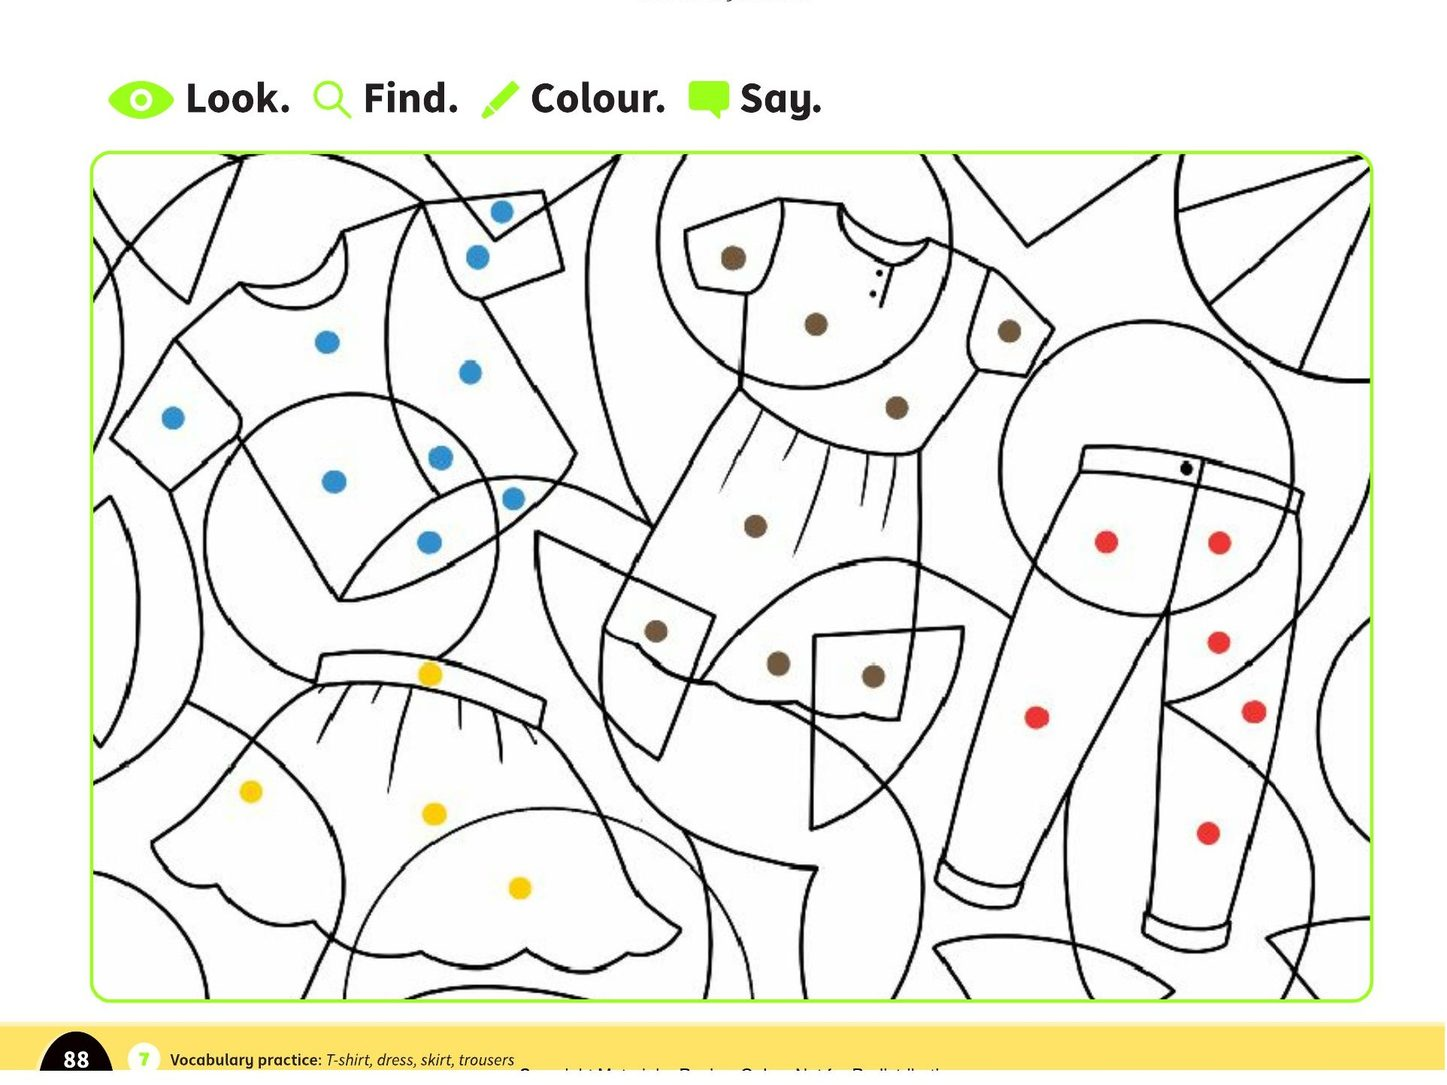
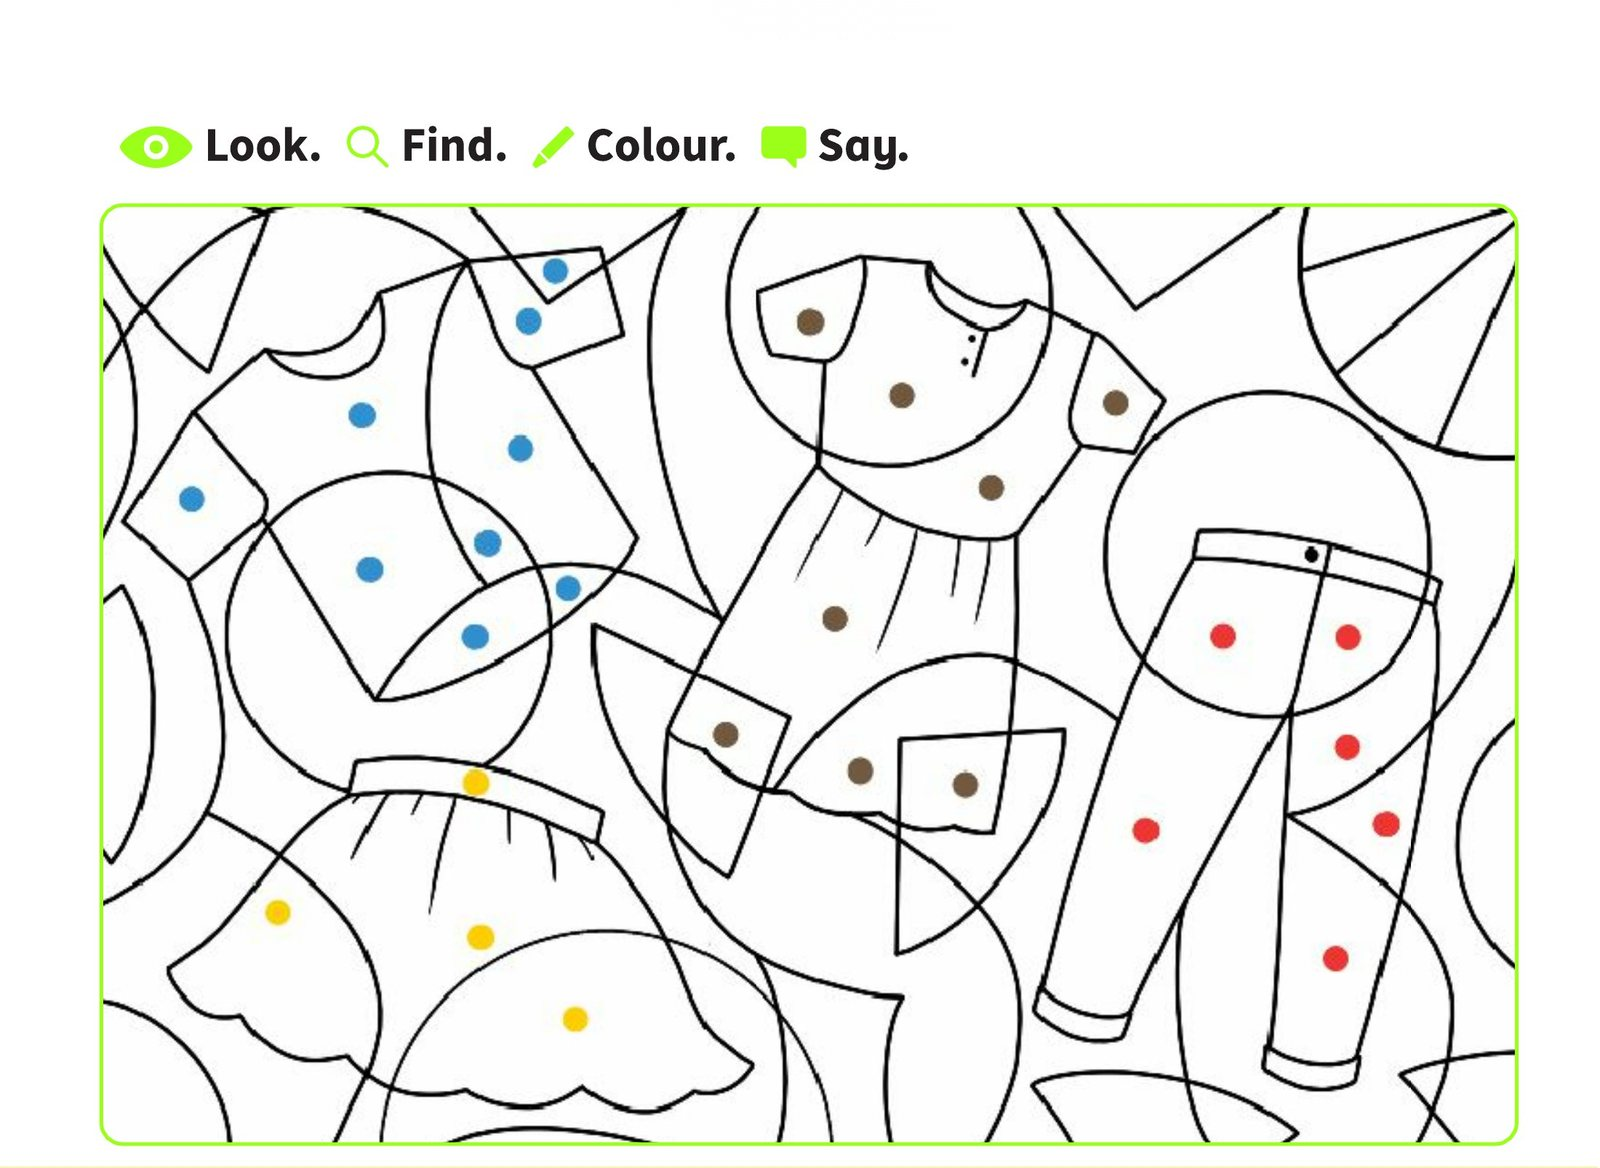
Pippa and Pop Unit 7: bigger book pages, story on one image, clearer big/small, larger page viewer
Claude-Session: https://claude.ai/code/session_01HRxe9P7gDbyjRT5WBzE48u

Changed region(s): [[0.0, 0.0608, 1.0, 1.0], [0.1555, 0.8212, 0.1866, 0.8516]]

diff --git a/public-media.js b/public-media.js
@@ -8,5 +8,5 @@ window.LOCALMEDIA=Object.assign(window.LOCALMEDIA||{},{"vox:phonics_a": {"apple"
 window.LOCALMEDIA=Object.assign(window.LOCALMEDIA||{},{"vox:phonics_v": {"van": "media-lib/opw/vox/van.mp3", "vet": "media-lib/opw/vox/vet.mp3", "vest": "media-lib/opw/vox/vest.mp3", "violin": "media-lib/opw/vox/violin.mp3"}, "vox:phonics_w": {"wolf": "media-lib/opw/vox/wolf.mp3", "web": "media-lib/opw/vox/web.mp3", "water": "media-lib/opw/vox/water.mp3", "watch": "media-lib/opw/vox/watch.mp3"}, "vox:phonics_x": {"fox": "media-lib/opw/vox/fox.mp3", "box": "media-lib/opw/vox/box.mp3", "six": "media-lib/opw/vox/six.mp3", "wax": "media-lib/opw/vox/wax.mp3"}, "vox:phonics_y": {"yo-yo": "media-lib/opw/vox/yo-yo.mp3", "yak": "media-lib/opw/vox/yak.mp3", "yogurt": "media-lib/opw/vox/yogurt.mp3", "yacht": "media-lib/opw/vox/yacht.mp3"}, "vox:phonics_z": {"zipper": "media-lib/opw/vox/zipper.mp3", "zero": "media-lib/opw/vox/zero.mp3", "zoo": "media-lib/opw/vox/zoo.mp3", "zebra": "media-lib/opw/vox/zebra.mp3"}});
 
 /* Phonics World voices for Letters O, P, Q */
-window.LOCALMEDIA=Object.assign(window.LOCALMEDIA||{},{"vox:phonics_o": {"octopus": "media-lib/opw/vox/octopus.mp3", "ox": "media-lib/opw/vox/ox.mp3", "olive": "media-lib/opw/vox/olive.mp3", "ostrich": "media-lib/opw/vox/ostrich.mp3"}, "vox:phonics_p": {"peach": "media-lib/opw/vox/peach.mp3", "pen": "media-lib/opw/vox/pen.mp3", "panda": "media-lib/opw/vox/panda.mp3", "pineapple": "media-lib/opw/vox/pineapple.mp3"}, "vox:phonics_q": {"queen": "media-lib/opw/vox/queen.mp3", "quiz": "media-lib/opw/vox/quiz.mp3", "quilt": "media-lib/opw/vox/quilt.mp3", "question": "media-lib/opw/vox/question.mp3"},"sbk:pp1_u7a":[{"src":"media-lib/pp1/pg/pb-p82.jpg","t":"Pupil's Book p.82: Unit 7 opener: the clothes song","w":1447,"h":1060,"au":[{"src":"media-lib/pp1/au/t53.mp3","t":"Audio (track 53)"}]},{"src":"media-lib/pp1/pg/pb-p83.jpg","t":"Pupil's Book p.83: Dan and Kim: listen, point, colour","w":1447,"h":1060,"au":[{"src":"media-lib/pp1/au/t54.mp3","t":"Audio (track 54)"}]},{"src":"media-lib/pp1/pg/pb-p84.jpg","t":"Pupil's Book p.84: Stickers: put on your hat (Track 55 is not in your Audio folder)","w":1447,"h":1060,"au":[]}],"wbk:pp1_u7a":[{"src":"media-lib/pp1/pg/ab-p82.jpg","t":"Activity Book p.82: Listen again, stick, point","w":1447,"h":1085,"au":[{"src":"media-lib/pp1/au/t53.mp3","t":"Audio (track 53)"}]},{"src":"media-lib/pp1/pg/ab-p83.jpg","t":"Activity Book p.83: Look, find, circle, say","w":1447,"h":1085,"au":[{"src":"media-lib/pp1/au/t54.mp3","t":"Audio (track 54)"}]},{"src":"media-lib/pp1/pg/ab-p84.jpg","t":"Activity Book p.84: Odd one out: put on, take off","w":1447,"h":1085,"au":[]}],"opw:pp1_u7a":[{"src":"media-lib/pp1/clip/u7a-t53.mp4","b":"The clothes song (track 53)"},{"src":"media-lib/pp1/clip/u7a-t54.mp4","b":"Dan, Kim and Mummy (track 54)"}],"sbk:pp1_u7b":[{"src":"media-lib/pp1/pg/pb-p85.jpg","t":"Pupil's Book p.85: Letter sound i: listen, trace, colour, say","w":1447,"h":1060,"au":[{"src":"media-lib/pp1/au/t56.mp3","t":"Audio (track 56)"}]},{"src":"media-lib/pp1/pg/pb-p86.jpg","t":"Pupil's Book p.86: Tommy's T-shirt: pictures 1 to 4","w":1447,"h":1060,"au":[{"src":"media-lib/pp1/au/t57.mp3","t":"Audio (track 57)"}]},{"src":"media-lib/pp1/pg/pb-p87.jpg","t":"Pupil's Book p.87: Tommy's T-shirt: pictures 5 to 8","w":1447,"h":1060,"au":[{"src":"media-lib/pp1/au/t57.mp3","t":"Audio (track 57)"}]}],"wbk:pp1_u7b":[{"src":"media-lib/pp1/pg/ab-p85.jpg","t":"Activity Book p.85: Letter i: listen again, find, trace, say","w":1447,"h":1085,"au":[{"src":"media-lib/pp1/au/t56.mp3","t":"Audio (track 56)"}]},{"src":"media-lib/pp1/pg/ab-p86.jpg","t":"Activity Book p.86: Tommy's T-shirt: look, point, trace","w":1447,"h":1085,"au":[{"src":"media-lib/pp1/au/t57.mp3","t":"Audio (track 57)"}]},{"src":"media-lib/pp1/pg/ab-p87.jpg","t":"Activity Book p.87: Be considerate: draw, colour, say","w":1447,"h":1085,"au":[]}],"opw:pp1_u7b":[{"src":"media-lib/pp1/clip/u7b-t56.mp4","b":"The letter sound i (track 56)"},{"src":"media-lib/pp1/clip/u7b-t57.mp4","b":"Tommy's T-shirt: the story (track 57)"}],"sbk:pp1_u7c":[{"src":"media-lib/pp1/pg/pb-p88.jpg","t":"Pupil's Book p.88: Pippa's new clothes: listen, point, trace","w":1447,"h":1060,"au":[{"src":"media-lib/pp1/au/t58.mp3","t":"Audio (track 58)"}]},{"src":"media-lib/pp1/pg/pb-p89.jpg","t":"Pupil's Book p.89: The clothes chant: listen, colour, sing","w":1447,"h":1060,"au":[{"src":"media-lib/pp1/au/t59.mp3","t":"Audio (track 59)"}]},{"src":"media-lib/pp1/pg/pb-p90.jpg","t":"Pupil's Book p.90: Numbers: shapes circle, square, triangle","w":1447,"h":1060,"au":[]}],"wbk:pp1_u7c":[{"src":"media-lib/pp1/pg/ab-p88.jpg","t":"Activity Book p.88: Look, find, colour, say","w":1447,"h":1085,"au":[{"src":"media-lib/pp1/au/t58.mp3","t":"Audio (track 58)"}]},{"src":"media-lib/pp1/pg/ab-p89.jpg","t":"Activity Book p.89: Match the children to the clothes","w":1447,"h":1085,"au":[{"src":"media-lib/pp1/au/t59.mp3","t":"Audio (track 59)"}]},{"src":"media-lib/pp1/pg/ab-p90.jpg","t":"Activity Book p.90: Shapes: look, trace, say","w":1447,"h":1085,"au":[]}],"opw:pp1_u7c":[{"src":"media-lib/pp1/clip/u7c-t58.mp4","b":"Pippa's new clothes (track 58)"},{"src":"media-lib/pp1/clip/u7c-t59.mp4","b":"The clothes chant (track 59)"}],"sbk:pp1_u7d":[{"src":"media-lib/pp1/pg/pb-p91.jpg","t":"Pupil's Book p.91: Art: rough and smooth","w":1447,"h":1060,"au":[]},{"src":"media-lib/pp1/pg/pb-p92.jpg","t":"Pupil's Book p.92: Review: I've got (socks), listen, match, say","w":1447,"h":1060,"au":[{"src":"media-lib/pp1/au/t60.mp3","t":"Audio (track 60)"}]},{"src":"media-lib/pp1/pg/pb-p93.jpg","t":"Pupil's Book p.93: Project time: dolls and clothes","w":1447,"h":1060,"au":[]}],"wbk:pp1_u7d":[{"src":"media-lib/pp1/pg/ab-p91.jpg","t":"Activity Book p.91: Rough and smooth: look, trace","w":1447,"h":1085,"au":[]},{"src":"media-lib/pp1/pg/ab-p92.jpg","t":"Activity Book p.92: Review: look, draw, say","w":1447,"h":1085,"au":[{"src":"media-lib/pp1/au/t60.mp3","t":"Audio (track 60)"}]},{"src":"media-lib/pp1/pg/ab-p93.jpg","t":"Activity Book p.93: Project time and self-evaluation","w":1447,"h":1085,"au":[]}],"opw:pp1_u7d":[{"src":"media-lib/pp1/clip/u7d-t59.mp4","b":"The clothes chant (track 59)"},{"src":"media-lib/pp1/clip/u7d-t60.mp4","b":"Which clothes? (track 60)"},{"src":"media-lib/pp1/clip/u7d-t53.mp4","b":"The clothes song (track 53)"}]
+window.LOCALMEDIA=Object.assign(window.LOCALMEDIA||{},{"vox:phonics_o": {"octopus": "media-lib/opw/vox/octopus.mp3", "ox": "media-lib/opw/vox/ox.mp3", "olive": "media-lib/opw/vox/olive.mp3", "ostrich": "media-lib/opw/vox/ostrich.mp3"}, "vox:phonics_p": {"peach": "media-lib/opw/vox/peach.mp3", "pen": "media-lib/opw/vox/pen.mp3", "panda": "media-lib/opw/vox/panda.mp3", "pineapple": "media-lib/opw/vox/pineapple.mp3"}, "vox:phonics_q": {"queen": "media-lib/opw/vox/queen.mp3", "quiz": "media-lib/opw/vox/quiz.mp3", "quilt": "media-lib/opw/vox/quilt.mp3", "question": "media-lib/opw/vox/question.mp3"},"sbk:pp1_u7a":[{"src":"media-lib/pp1/pg/pb-p82.jpg","t":"Pupil's Book p.82: Unit 7 opener: the clothes song","w":1600,"h":1140,"au":[{"src":"media-lib/pp1/au/t53.mp3","t":"Audio (track 53)"}]},{"src":"media-lib/pp1/pg/pb-p83.jpg","t":"Pupil's Book p.83: Dan and Kim: listen, point, colour","w":1600,"h":1140,"au":[{"src":"media-lib/pp1/au/t54.mp3","t":"Audio (track 54)"}]},{"src":"media-lib/pp1/pg/pb-p84.jpg","t":"Pupil's Book p.84: Stickers: put on your hat (Track 55 is not in your Audio folder)","w":1600,"h":1140,"au":[]}],"wbk:pp1_u7a":[{"src":"media-lib/pp1/pg/ab-p82.jpg","t":"Activity Book p.82: Listen again, stick, point","w":1600,"h":1168,"au":[{"src":"media-lib/pp1/au/t53.mp3","t":"Audio (track 53)"}]},{"src":"media-lib/pp1/pg/ab-p83-top.jpg","t":"Activity Book p.83: Look, find, circle, say (top half)","w":1600,"h":596,"au":[{"src":"media-lib/pp1/au/t54.mp3","t":"Audio (track 54)"}]},{"src":"media-lib/pp1/pg/ab-p83-bot.jpg","t":"Activity Book p.83: Look, find, circle, say (bottom half)","w":1600,"h":596,"au":[{"src":"media-lib/pp1/au/t54.mp3","t":"Audio (track 54)"}]},{"src":"media-lib/pp1/pg/ab-p84-top.jpg","t":"Activity Book p.84: Odd one out: put on, take off (top half)","w":1600,"h":596,"au":[]},{"src":"media-lib/pp1/pg/ab-p84-bot.jpg","t":"Activity Book p.84: Odd one out: put on, take off (bottom half)","w":1600,"h":596,"au":[]}],"opw:pp1_u7a":[{"src":"media-lib/pp1/clip/u7a-t53.mp4","b":"The clothes song (track 53)"},{"src":"media-lib/pp1/clip/u7a-t54.mp4","b":"Dan, Kim and Mummy (track 54)"}],"sbk:pp1_u7b":[{"src":"media-lib/pp1/pg/pb-p85.jpg","t":"Pupil's Book p.85: Letter sound i: listen, trace, colour, say","w":1600,"h":1140,"au":[{"src":"media-lib/pp1/au/t56.mp3","t":"Audio (track 56)"}]},{"src":"media-lib/pp1/pg/pb-p86-87.jpg","t":"Pupil's Book p.86: Tommy's T-shirt: the whole story (pp. 86-87)","w":2400,"h":855,"au":[{"src":"media-lib/pp1/au/t57.mp3","t":"Audio (track 57)"}]}],"wbk:pp1_u7b":[{"src":"media-lib/pp1/pg/ab-p85.jpg","t":"Activity Book p.85: Letter i: listen again, find, trace, say","w":1600,"h":1168,"au":[{"src":"media-lib/pp1/au/t56.mp3","t":"Audio (track 56)"}]},{"src":"media-lib/pp1/pg/ab-p86.jpg","t":"Activity Book p.86: Tommy's T-shirt: look, point, trace","w":1600,"h":1168,"au":[{"src":"media-lib/pp1/au/t57.mp3","t":"Audio (track 57)"}]},{"src":"media-lib/pp1/pg/ab-p87.jpg","t":"Activity Book p.87: Be considerate: draw, colour, say","w":1600,"h":1168,"au":[]}],"opw:pp1_u7b":[{"src":"media-lib/pp1/clip/u7b-t56.mp4","b":"The letter sound i (track 56)"},{"src":"media-lib/pp1/clip/u7b-t57.mp4","b":"Tommy's T-shirt: the story (track 57)"}],"sbk:pp1_u7c":[{"src":"media-lib/pp1/pg/pb-p88-top.jpg","t":"Pupil's Book p.88: Pippa's new clothes: listen, point, trace (top half)","w":1600,"h":582,"au":[{"src":"media-lib/pp1/au/t58.mp3","t":"Audio (track 58)"}]},{"src":"media-lib/pp1/pg/pb-p88-bot.jpg","t":"Pupil's Book p.88: Pippa's new clothes: listen, point, trace (bottom half)","w":1600,"h":582,"au":[{"src":"media-lib/pp1/au/t58.mp3","t":"Audio (track 58)"}]},{"src":"media-lib/pp1/pg/pb-p89.jpg","t":"Pupil's Book p.89: The clothes chant: listen, colour, sing","w":1600,"h":1140,"au":[{"src":"media-lib/pp1/au/t59.mp3","t":"Audio (track 59)"}]},{"src":"media-lib/pp1/pg/pb-p90.jpg","t":"Pupil's Book p.90: Numbers: shapes circle, square, triangle","w":1600,"h":1140,"au":[]}],"wbk:pp1_u7c":[{"src":"media-lib/pp1/pg/ab-p88.jpg","t":"Activity Book p.88: Look, find, colour, say","w":1600,"h":1168,"au":[{"src":"media-lib/pp1/au/t58.mp3","t":"Audio (track 58)"}]},{"src":"media-lib/pp1/pg/ab-p89-top.jpg","t":"Activity Book p.89: Match the children to the clothes (top half)","w":1600,"h":596,"au":[{"src":"media-lib/pp1/au/t59.mp3","t":"Audio (track 59)"}]},{"src":"media-lib/pp1/pg/ab-p89-bot.jpg","t":"Activity Book p.89: Match the children to the clothes (bottom half)","w":1600,"h":596,"au":[{"src":"media-lib/pp1/au/t59.mp3","t":"Audio (track 59)"}]},{"src":"media-lib/pp1/pg/ab-p90.jpg","t":"Activity Book p.90: Shapes: look, trace, say","w":1600,"h":1168,"au":[]}],"opw:pp1_u7c":[{"src":"media-lib/pp1/clip/u7c-t58.mp4","b":"Pippa's new clothes (track 58)"},{"src":"media-lib/pp1/clip/u7c-t59.mp4","b":"The clothes chant (track 59)"}],"sbk:pp1_u7d":[{"src":"media-lib/pp1/pg/pb-p91-top.jpg","t":"Pupil's Book p.91: Art: rough and smooth (top half)","w":1600,"h":582,"au":[]},{"src":"media-lib/pp1/pg/pb-p91-bot.jpg","t":"Pupil's Book p.91: Art: rough and smooth (bottom half)","w":1600,"h":582,"au":[]},{"src":"media-lib/pp1/pg/pb-p92-top.jpg","t":"Pupil's Book p.92: Review: I've got (socks), listen, match, say (top half)","w":1600,"h":582,"au":[{"src":"media-lib/pp1/au/t60.mp3","t":"Audio (track 60)"}]},{"src":"media-lib/pp1/pg/pb-p92-bot.jpg","t":"Pupil's Book p.92: Review: I've got (socks), listen, match, say (bottom half)","w":1600,"h":582,"au":[{"src":"media-lib/pp1/au/t60.mp3","t":"Audio (track 60)"}]},{"src":"media-lib/pp1/pg/pb-p93-top.jpg","t":"Pupil's Book p.93: Project time: dolls and clothes (top half)","w":1600,"h":582,"au":[]},{"src":"media-lib/pp1/pg/pb-p93-bot.jpg","t":"Pupil's Book p.93: Project time: dolls and clothes (bottom half)","w":1600,"h":582,"au":[]}],"wbk:pp1_u7d":[{"src":"media-lib/pp1/pg/ab-p91-top.jpg","t":"Activity Book p.91: Rough and smooth: look, trace (top half)","w":1600,"h":596,"au":[]},{"src":"media-lib/pp1/pg/ab-p91-bot.jpg","t":"Activity Book p.91: Rough and smooth: look, trace (bottom half)","w":1600,"h":596,"au":[]},{"src":"media-lib/pp1/pg/ab-p92.jpg","t":"Activity Book p.92: Review: look, draw, say","w":1600,"h":1168,"au":[{"src":"media-lib/pp1/au/t60.mp3","t":"Audio (track 60)"}]},{"src":"media-lib/pp1/pg/ab-p93-top.jpg","t":"Activity Book p.93: Project time and self-evaluation (top half)","w":1600,"h":596,"au":[]},{"src":"media-lib/pp1/pg/ab-p93-bot.jpg","t":"Activity Book p.93: Project time and self-evaluation (bottom half)","w":1600,"h":596,"au":[]}],"opw:pp1_u7d":[{"src":"media-lib/pp1/clip/u7d-t59.mp4","b":"The clothes chant (track 59)"},{"src":"media-lib/pp1/clip/u7d-t60.mp4","b":"Which clothes? (track 60)"},{"src":"media-lib/pp1/clip/u7d-t53.mp4","b":"The clothes song (track 53)"}]
 });

diff --git a/player.html b/player.html
@@ -791,7 +791,7 @@ else if(r==='scene'){const SC=L.scene,IW=SC_IW(L.scene),IH=SC_IH(L.scene),sx=160
  else if(r==='missing'){const M=S.ms;if(!M)h='<div class="q1">Who is missing?</div>';else{h=`<div class="t2">${M.h<0?'Look at the pictures!':M.rev?'It was '+M.ord[M.h]+'!':"Who is missing?"}</div><div class="row">${M.ord.map((x,i)=>M.h===i&&!M.rev?`<div class="mc back" style="width:230px;height:230px" onclick="act('msshow')">?</div>`:`<div class="card ${M.h===i&&M.rev?'ok':''}">${pic(x,'smp')}</div>`).join('')}</div>`}}
  else if(r==='find'){const F=S.fd;if(!F)h='<div class="q1">Find it!</div>';else{h=`<div class="top"><div class="q1">${F.done?'You found it!':'Find the '+F.t+'!'}</div></div>`+F.items.map((it,i)=>`<div class="fi ${it.o?'o':''} ${F.wob===i?'wob':''}" style="left:${it.px}px;top:${it.py}px;transform:rotate(${(i*37)%13-6}deg)" onclick="act('fpick',${i})">${pic(it.w)}</div>`).join('')}}
  else if(r==='scratch'){const Q=S.sc;if(!Q)h='<div class="q1">What is hiding?</div>';else{h=`<div class="t2">${Q.done?"It's a "+Q.t+'!':'What is hiding? Tap to look!'}</div><div style="position:relative;width:740px;height:430px">${pic(Q.t,'bigp')}${Q.tiles.map((o,i)=>`<div class="stile ${o||Q.done?'o':''}" style="left:${(i%4)*185}px;top:${Math.floor(i/4)*143.33}px;width:185px;height:143.4px" onclick="act('sct',${i})">?</div>`).join('')}</div>`}}
- else if(r==='wbk'){const st=L.stages[S.st],pg=st.pages||[],W=WB(),i=Math.min(W.i||0,pg.length-1),P=pg[i];if(!P)h='<div class="q1">No pages on this computer</div>';else{const q=P.w/P.h,ss=(W.s[st.kind+i]||[]).map(o=>`<polyline points="${o.p.map(z=>z.join(',')).join(' ')}" fill="none" stroke="${o.c}" stroke-width="9" stroke-linecap="round" stroke-linejoin="round" vector-effect="non-scaling-stroke"/>`).join('');const nb=(d,t,dis)=>`<button class="wbn"${dis?' disabled':''} onclick="event.stopPropagation();act('wbp',${d})">${t}</button>`,tb=(t,ac,pp,cl,st)=>`<button class="wbt ${cl||''}"${st?' style="'+st+'"':''} onclick="event.stopPropagation();act('${ac}'${pp!==undefined?','+JSON.stringify(pp).replace(/"/g,'&quot;'):''})">${t}</button>`;h=`<div class="wbw"><div class="wbwi" style="width:min(1060px,${(455*q).toFixed(0)}px)">${nb(-1,'&#9664;',i===0)}<div class="wbpen" style="width:100%;aspect-ratio:${q.toFixed(4)}"><img src="${P.src}" draggable="false"><svg viewBox="0 0 1000 1000" preserveAspectRatio="none">${ss}</svg></div>${nb(1,'&#9654;',i===pg.length-1)}</div></div><div class="wbtbar"><span class="wbc">${i+1} / ${pg.length}</span>${(P.au||[]).map(x=>tb('&#9658; '+x.t,'wbaud',x.src,'au')).join('')}${(P.au||[]).length?tb('&#9632; Stop','wbstop','','g'):''}${['#E53935','#1E88E5','#43A047'].map(c=>tb('&#9679;','wbc',c,W.c===c?'sel':'','color:'+c)).join('')}${tb('Undo','wbu','','g')}${tb('Clear','wbclr','','g')}</div>`}}
+ else if(r==='wbk'){const st=L.stages[S.st],pg=st.pages||[],W=WB(),i=Math.min(W.i||0,pg.length-1),P=pg[i];if(!P)h='<div class="q1">No pages on this computer</div>';else{const q=P.w/P.h,ss=(W.s[st.kind+i]||[]).map(o=>`<polyline points="${o.p.map(z=>z.join(',')).join(' ')}" fill="none" stroke="${o.c}" stroke-width="9" stroke-linecap="round" stroke-linejoin="round" vector-effect="non-scaling-stroke"/>`).join('');const nb=(d,t,dis)=>`<button class="wbn"${dis?' disabled':''} onclick="event.stopPropagation();act('wbp',${d})">${t}</button>`,tb=(t,ac,pp,cl,st)=>`<button class="wbt ${cl||''}"${st?' style="'+st+'"':''} onclick="event.stopPropagation();act('${ac}'${pp!==undefined?','+JSON.stringify(pp).replace(/"/g,'&quot;'):''})">${t}</button>`;h=`<div class="wbw"><div class="wbwi" style="width:min(1480px,${(720*q).toFixed(0)}px)">${nb(-1,'&#9664;',i===0)}<div class="wbpen" style="width:100%;aspect-ratio:${q.toFixed(4)}"><img src="${P.src}" draggable="false"><svg viewBox="0 0 1000 1000" preserveAspectRatio="none">${ss}</svg></div>${nb(1,'&#9654;',i===pg.length-1)}</div></div><div class="wbtbar"><span class="wbc">${i+1} / ${pg.length}</span>${(P.au||[]).map(x=>tb('&#9658; '+x.t,'wbaud',x.src,'au')).join('')}${(P.au||[]).length?tb('&#9632; Stop','wbstop','','g'):''}${['#E53935','#1E88E5','#43A047'].map(c=>tb('&#9679;','wbc',c,W.c===c?'sel':'','color:'+c)).join('')}${tb('Undo','wbu','','g')}${tb('Clear','wbclr','','g')}</div>`}}
  else if(r==='link'){const O=S.lk;if(!O)h='<div class="q1">'+L.lk.q+'</div>';else{const C=['#FF8A65','#4FC3F7','#81C784','#BA68C8','#FFD54F'];const cs=(k,sel)=>O.d[k]!==undefined?'background:'+C[O.d[k]%5]+';':(sel?'outline:8px solid #FFC83D;':'');h=`<div class="t2">${O.msg}</div><div class="lkw"><div class="lkc">${O.l.map((x,i)=>`<div class="card lk ${O.bad==='L'+i?'no':''}" style="${cs('L'+i,O.sel===i)}" onclick="act('lkpick','L${i}')">${pic(x,'smp')}<b>${x}</b></div>`).join('')}</div><div class="lkc">${O.r.map((x,i)=>`<div class="card lk lkt ${O.bad==='R'+i?'no':''}" style="${cs('R'+i,0)}" onclick="act('lkpick','R${i}')"><b>${x}</b></div>`).join('')}</div></div>`}}
  else if(r==='sense'){const O=S.sn;if(!O)h='<div class="q1">'+L.sg.q+'</div>';else{h=`<div class="t2">${O.done?O.say:L.sg.q}</div><div class="row" style="justify-content:center;margin:18px 0">${pic(O.w,'midp')}</div>${lay(O.ch.map((x,i)=>`<div class="card ${O.bad===i?'no':''} ${O.done&&x===O.s?'ok':''}" onclick="act('senpick',${i})">${pic(x,'smp')}</div>`),'row')}`}}
  else if(r==='odd'){const O=S.od;if(!O)h='<div class="q1">Which is different?</div>';else{h=`<div class="t2">${O.done?"Yes! It's a "+O.b+'!':'Which one is different?'}</div>${lay(O.items.map((x,i)=>`<div class="card ${O.bad===i?'no':''} ${O.done&&x===O.b?'ok':''}" onclick="act('opick',${i})">${pic(x,'smp')}</div>`),L.stages[S.st].layout||'row')}`}}
